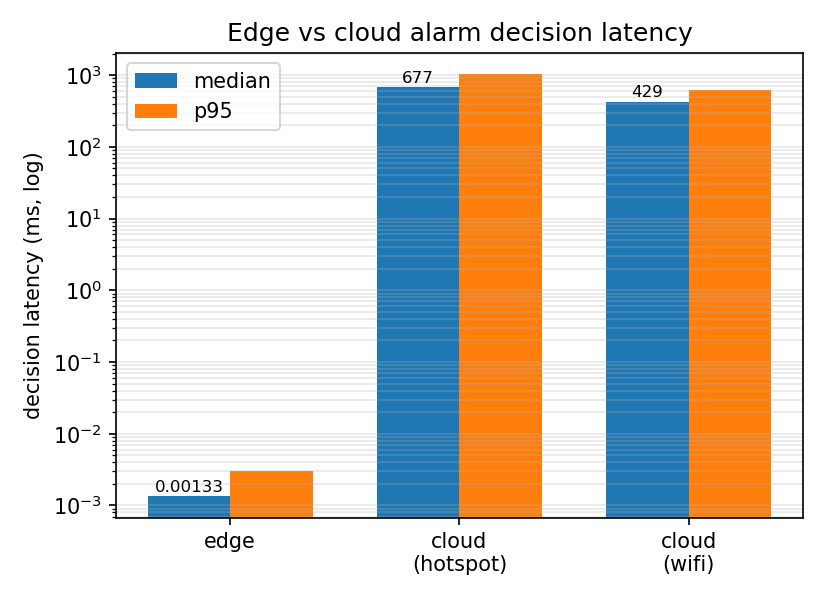
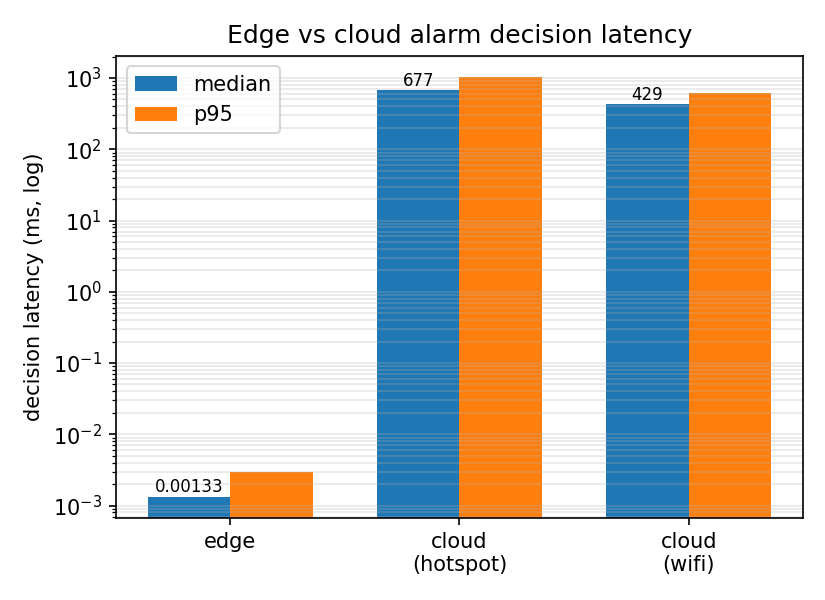
Label cloud decision latency as estimated (Spark ran locally)

diff --git a/v2/latency/combine.py b/v2/latency/combine.py
@@ -51,7 +51,7 @@ def main():
         tot = rng.choice(r, 20000) + rng.choice(s, 20000)
         totals[label] = summarize(tot)
         name = "network + Spark" if spark else "network only"
-        rows.append((f"**Cloud decision, {label}** ({name}, full round trip)",
+        rows.append((f"**Estimated cloud decision, {label}** ({name}, full round trip)",
                      totals[label], ""))
 
     def fmt(v):
@@ -66,7 +66,7 @@ def main():
         L.append(f"| {name} | {fmt(s['median_ms'])} | {fmt(s['p95_ms'])} | "
                  f"{fmt(s['p99_ms'])} | {s['n']} | {note} |")
     for label, t in totals.items():
-        L.append(f"\n- **{label}:** cloud decision median {fmt(t['median_ms'])} vs "
+        L.append(f"\n- **{label}:** estimated cloud decision median {fmt(t['median_ms'])} vs "
                  f"edge {fmt(e)} (≈{t['median_ms'] / e:,.0f}× faster on the edge); "
                  f"cloud p95 {fmt(t['p95_ms'])}.")
     L.append("\nEdge timing is Python on a laptop CPU, not a microcontroller. "

diff --git a/README.md b/README.md
@@ -10,9 +10,9 @@ data ever reaches the cloud?
 
 > Across 300 simulated runs, the edge pipeline cut mean fire-detection delay
 > from **64 s to 20 s** and used **98.8% less bandwidth** than streaming raw
-> readings. Separately, on real networks, an on-device alarm decision took
-> **under 1 ms**, versus a median **~430–680 ms** for a cloud decision over
-> Wi-Fi and cellular.
+> readings. Separately, an on-device alarm decision measured **under 1 ms**,
+> versus median **estimated cloud decision times of ~430–680 ms** over real
+> Wi-Fi and cellular connections.
 
 **Simulated:** Monte Carlo over 300 simulated 30-minute recordings (130 fires, 159
 steam/cooking nuisance events, ~126 h of non-fire data). Full tables in
@@ -26,10 +26,12 @@ steam/cooking nuisance events, ~126 h of non-fire data). Full tables in
 | Uplink messages | 3600 / hour | **151 / hour** (Kalman + send-on-delta, 20 ppm) |
 | Uplink bytes | 925 KB / hour | **11 KB / hour** (−98.8%), with 3× *lower* error |
 
-**Measured** on a MacBook over home Wi-Fi and a phone hotspot, through a public
-MQTT broker (details in section 6 and the [run log](v2/results/latency/RUN_LOG.md)):
+**Measured / estimated** on a MacBook over home Wi-Fi and a phone hotspot,
+through a public MQTT broker. The cloud figure is an *estimate*: real measured
+network round trip + Spark processing measured locally (details in section 6
+and the [run log](v2/results/latency/RUN_LOG.md)):
 
-| alarm decision latency (median) | cloud: network round trip + Spark | edge: on-device |
+| alarm decision latency (median) | cloud (estimated): network round trip + Spark | edge: on-device (measured) |
 |---|---|---|
 | Wi-Fi | 429 ms | **< 1 ms** (1.3 µs on a laptop CPU) |
 | Cellular (hotspot) | 677 ms | **< 1 ms** |
@@ -80,7 +82,7 @@ it work: on raw data, noise crosses the deadband constantly.
 schema-based `from_json`, event-time 1-min windows with watermarks, and a
 fused smoke + CO alert rule, replacing the removed DStream/`KafkaUtils` API.
 
-**6. Edge vs cloud decision latency: measured on real networks** ([`v2/latency/`](v2/latency/))
+**6. Edge vs cloud decision latency: real networks, estimated cloud time** ([`v2/latency/`](v2/latency/))
 Once the signal shows a fire, how long until an alarm sounds? Measured on a
 MacBook (Apple silicon) at home, through the public MQTT broker
 `broker.emqx.io` (QoS 1, 500 messages per network, 0 lost), counting the
@@ -92,14 +94,14 @@ full round trip (sensor → cloud decides → alarm back to the device):
 | Network round trip, home Wi-Fi | 36 ms | 233 ms |
 | Network round trip, phone hotspot (cellular) | 296 ms | 644 ms |
 | Spark Structured Streaming processing | 388 ms | 420 ms |
-| **Cloud decision, Wi-Fi** | **429 ms** | 621 ms |
-| **Cloud decision, cellular** | **677 ms** | 1033 ms |
+| **Estimated cloud decision, Wi-Fi** | **429 ms** | 621 ms |
+| **Estimated cloud decision, cellular** | **677 ms** | 1033 ms |
 
 ![latency](v2/results/latency/latency.png)
 
 Edge timing is Python on a laptop CPU; a microcontroller port would be slower
 but still well under 1 ms. Spark ran locally on the laptop as a stand-in for
-a cloud server, so "cloud decision" = real network round trip + local Spark
+a cloud server, so "estimated cloud decision" = real network round trip + local Spark
 processing, measured separately and combined by random pairing (assumes
 independence). Exact commands, environment and raw data: [run log](v2/results/latency/RUN_LOG.md). Note the decision latency
 (< 1 s) is small next to the detection delay (20–64 s): the algorithmic

diff --git a/v2/results/latency/latency.md b/v2/results/latency/latency.md
@@ -8,12 +8,12 @@ Measured on: macOS-26.7.1-arm64-arm-64bit
 | Network round trip, hotspot (MQTT QoS 1) | 296.1 ms | 644.5 ms | 938.2 ms | 500 | lost 0/500 |
 | Network round trip, wifi (MQTT QoS 1) | 35.8 ms | 232.6 ms | 584.7 ms | 500 | lost 0/500 |
 | Spark processing (file → alert evaluated) | 387.9 ms | 420.0 ms | 438.5 ms | 60 |  |
-| **Cloud decision, hotspot** (network + Spark, full round trip) | 677.0 ms | 1033.1 ms | 1333.3 ms | 20000 |  |
-| **Cloud decision, wifi** (network + Spark, full round trip) | 428.9 ms | 620.7 ms | 971.6 ms | 20000 |  |
+| **Estimated cloud decision, hotspot** (network + Spark, full round trip) | 677.0 ms | 1033.1 ms | 1333.3 ms | 20000 |  |
+| **Estimated cloud decision, wifi** (network + Spark, full round trip) | 428.9 ms | 620.7 ms | 971.6 ms | 20000 |  |
 
-- **hotspot:** cloud decision median 677.0 ms vs edge 1.3 µs (≈507,864× faster on the edge); cloud p95 1033.1 ms.
+- **hotspot:** estimated cloud decision median 677.0 ms vs edge 1.3 µs (≈507,864× faster on the edge); cloud p95 1033.1 ms.
 
-- **wifi:** cloud decision median 428.9 ms vs edge 1.3 µs (≈321,730× faster on the edge); cloud p95 620.7 ms.
+- **wifi:** estimated cloud decision median 428.9 ms vs edge 1.3 µs (≈321,730× faster on the edge); cloud p95 620.7 ms.
 
 Edge timing is Python on a laptop CPU, not a microcontroller. Network and Spark were measured separately and combined by random pairing (assumes independence). The public broker is shared, so network times include its load.
 

diff --git a/v2/results/latency/RUN_LOG.md b/v2/results/latency/RUN_LOG.md
@@ -69,7 +69,7 @@ Every individual timing plus metadata is saved in this folder:
 
 ## Notes and limitations
 
-- **Spark ran locally on the laptop**, not on a cloud server. "Cloud
+- **Spark ran locally on the laptop**, not on a cloud server, so the cloud figure is an **estimate**: "Cloud
   decision" = real measured network round trip + locally measured Spark
   processing, combined by random pairing (assumes the two are independent).
 - Edge timing is Python on a laptop CPU, not a microcontroller.
